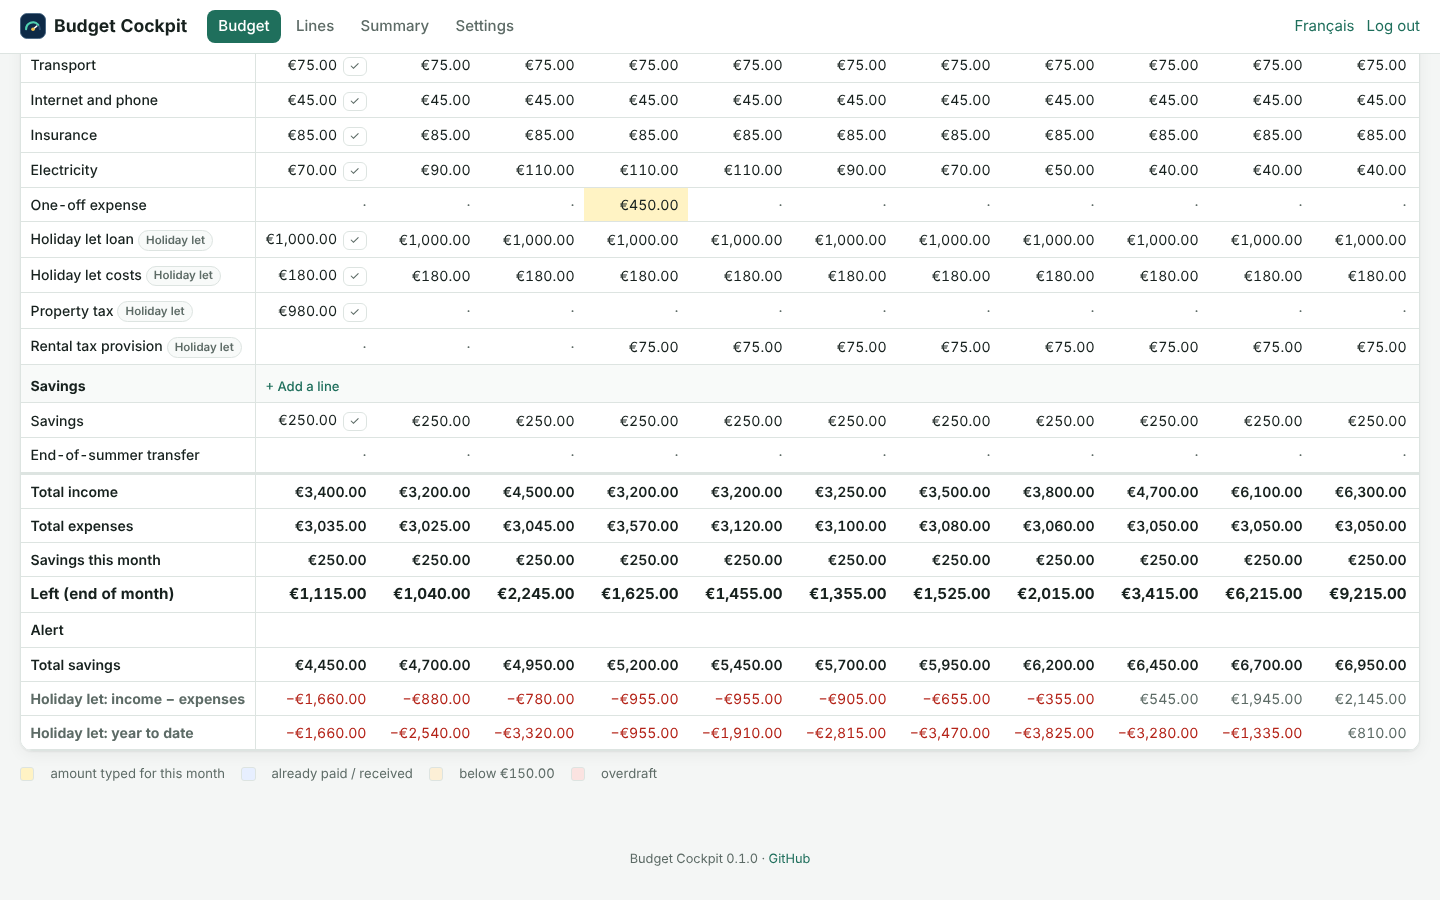
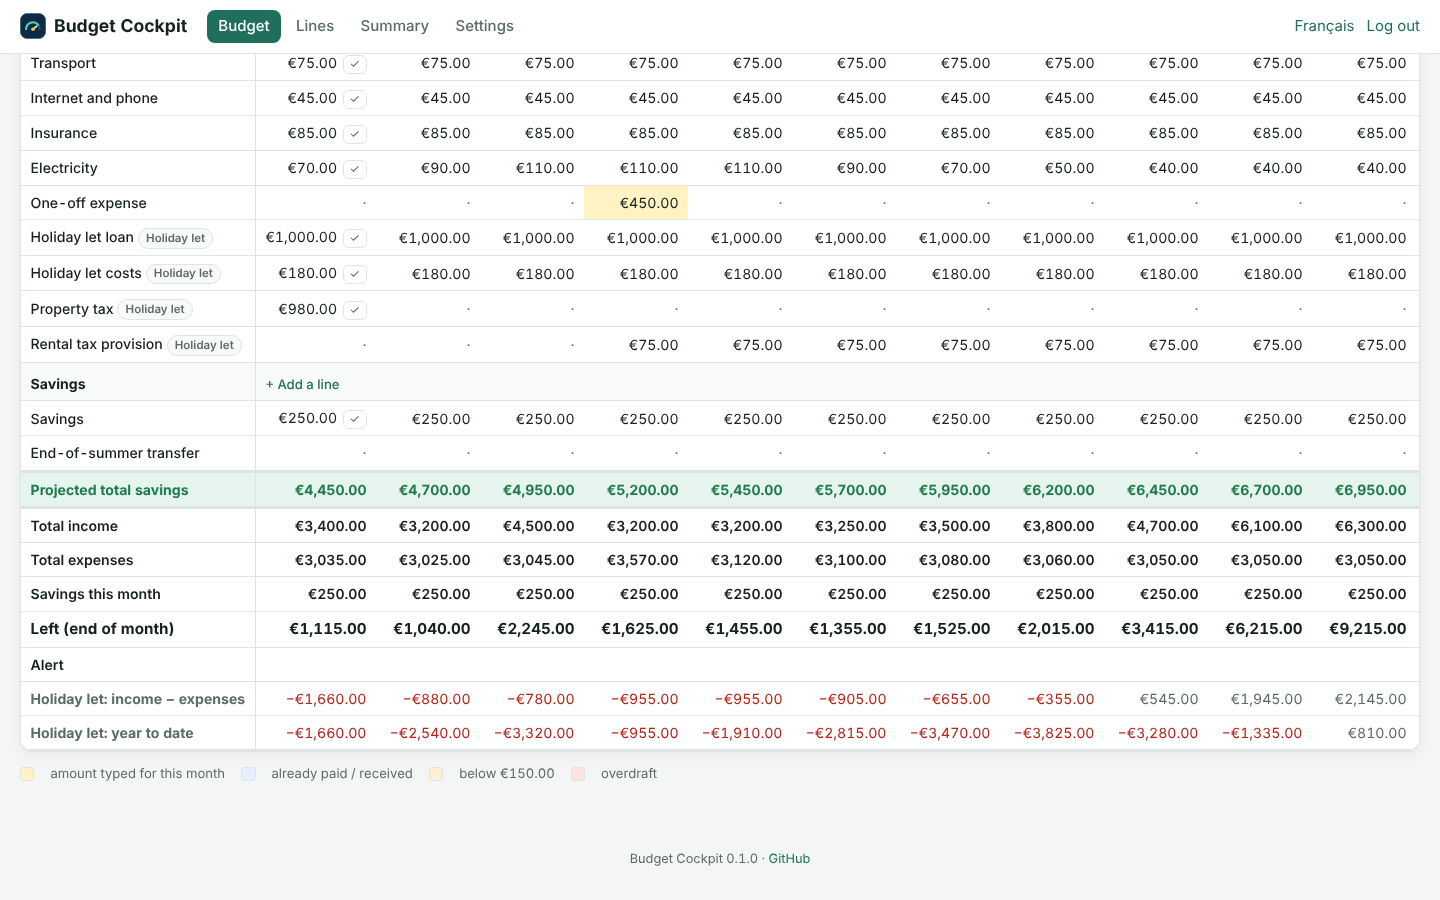
Show projected total savings under the savings lines (#8)
The cumulative savings row moves from the bottom of the grid to the end of the savings section, highlighted, so each planned transfer shows its effect right away. A negative amount on a savings line is a withdrawal. Version 0.1.1.

diff --git a/src/budget_cockpit/templates/budget.html b/src/budget_cockpit/templates/budget.html
@@ -75,6 +75,12 @@
       {% endfor %}
     </tr>
     {% endfor %}
+    {% if kind == 'savings' %}
+    <tr class="savings-total" title="{{ t('budget.savings_total_help') }}">
+      <th class="sticky">{{ t('budget.savings_total') }}</th>
+      {% for v in p.savings_total %}<td class="{{ 'neg' if v < 0 }}">{{ money(v) }}</td>{% endfor %}
+    </tr>
+    {% endif %}
   </tbody>
   {% endfor %}
   <tbody class="totals">
@@ -83,7 +89,6 @@
     <tr><th class="sticky">{{ t('budget.total_savings') }}</th>{% for v in p.savings %}<td>{{ money(v) }}</td>{% endfor %}</tr>
     <tr class="balance"><th class="sticky">{{ t('budget.balance') }}</th>{% for v in p.balance %}<td class="{{ p.alerts[loop.index0] }}">{{ money(v) }}</td>{% endfor %}</tr>
     <tr class="alerts"><th class="sticky">{{ t('budget.alert') }}</th>{% for a in p.alerts %}<td class="{{ a }}">{{ t('alert.' ~ a) if a }}</td>{% endfor %}</tr>
-    <tr><th class="sticky">{{ t('budget.savings_total') }}</th>{% for v in p.savings_total %}<td>{{ money(v) }}</td>{% endfor %}</tr>
   </tbody>
   {% if p.groups %}
   <tbody class="groups">

diff --git a/src/budget_cockpit/static/app.css b/src/budget_cockpit/static/app.css
@@ -169,6 +169,8 @@ tr.inactive th, tr.inactive td { opacity: .45; }
 .alerts td { font-size: .75rem; font-weight: 700; text-transform: uppercase; letter-spacing: .02em; text-align: center; }
 .groups th, .groups td { color: var(--muted); }
 td.neg { color: var(--bad); }
+.grid tr.savings-total th, .grid tr.savings-total td { font-weight: 700; background: var(--ok-bg); color: var(--ok); border-top: 2px solid var(--line); }
+.grid tr.savings-total td.neg { background: var(--bad-bg); color: var(--bad); }
 .legend { color: var(--muted); font-size: .82rem; display: flex; gap: .4rem 1rem; flex-wrap: wrap; align-items: center; }
 .swatch { display: inline-block; width: .9rem; height: .9rem; border-radius: 3px; vertical-align: -2px; border: 1px solid var(--line); }
 .swatch.override { background: var(--override-bg); }

diff --git a/tests/test_app.py b/tests/test_app.py
@@ -69,6 +69,21 @@ def test_demo_data_in_english(client):
     assert "Holiday let: year to date" in r.text
 
 
+def test_projected_savings_sit_under_the_savings_lines(client):
+    setup_account(client, demo=True)
+    store = client.app.state.store
+    month = store.get_settings("2026-10").start_month
+    savings_line = next(line for line in store.list_lines() if line.kind == "savings")
+    headers = {"X-CSRF-Token": page_csrf(client, "/budget")}
+    client.post("/budget/cell", json={"line_id": savings_line.id, "month": month, "value": "-1000"}, headers=headers)
+    html = client.get("/budget").text
+    savings_section = html.split('class="section section-savings"')[1].split("</tbody>")[0]
+    assert "Épargne totale prévue" in savings_section
+    # demo savings: 4 200 € today, the -1 000 € withdrawal replaces the 250 € monthly transfer
+    assert "3 200,00 €" in savings_section
+    assert "Épargne totale prévue" not in html.split('class="totals"')[1]
+
+
 def test_post_without_csrf_is_rejected(client):
     setup_account(client)
     r = client.post("/lines/save", data={"name": "x", "kind": "expense", "frequency": "monthly"})

diff --git a/src/budget_cockpit/__init__.py b/src/budget_cockpit/__init__.py
@@ -1,3 +1,3 @@
 """Budget Cockpit — know what will be left on your account at the end of every month."""
 
-__version__ = "0.1.0"
+__version__ = "0.1.1"

diff --git a/CHANGELOG.md b/CHANGELOG.md
@@ -1,5 +1,9 @@
 # Changelog
 
+## 0.1.1 — 2026-10-11
+
+- The projected total savings now sit right under the savings lines in the budget grid (they used to be at the very bottom), so each planned transfer shows its effect immediately. A negative amount on a savings line is a withdrawal back to the current account.
+
 ## 0.1.0 — 2026-10-11
 
 First public version.
